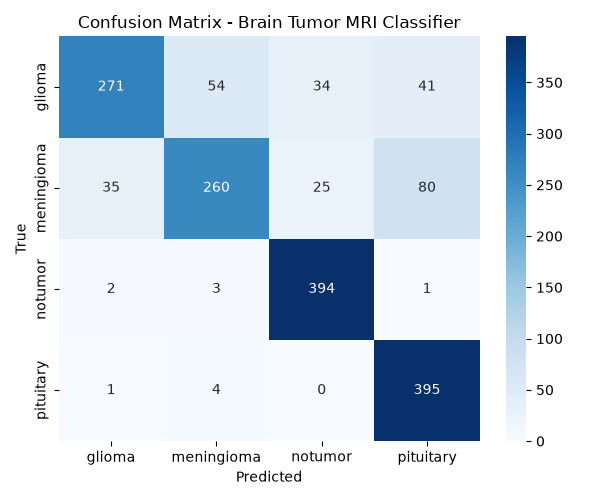
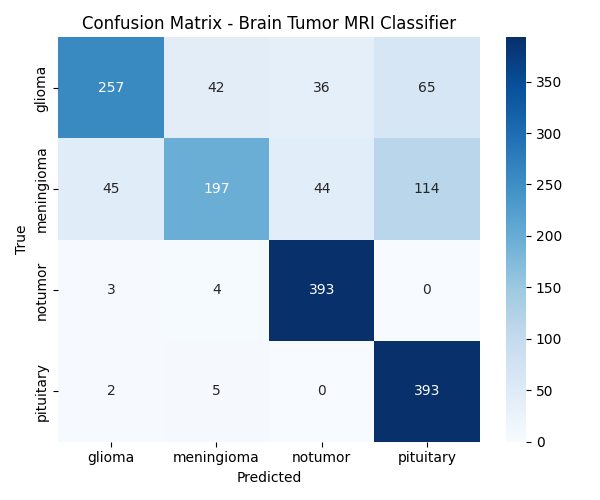
Fix deploy crash: pin keras==3.12.4 to match Streamlit Cloud Python 3.10
The model was originally saved with Keras 3.15.1 (resolved locally on
Python 3.11), but Keras 3.15.1 doesn't support Python 3.10 at all, so
Streamlit Cloud resolved an older, incompatible Keras (3.12.4) at
deploy time, which couldn't deserialize the newer VarianceScaling
initializer config (input_axes/output_axes fields) -> TypeError on
load_model().

Fix: pin keras==3.12.4 (max version compatible with Python 3.10) in
both requirements.txt and training/requirements.txt, retrain with a
matching Python 3.10 venv, and re-upload the model to Hugging Face.
Verified the fix by loading the freshly uploaded model in a clean
Python 3.10 + keras==3.12.4 environment.

diff --git a/README.md b/README.md
@@ -6,7 +6,7 @@ This project is a brain tumor MRI classifier built using Streamlit, a powerful f
 LINK TO TRY IT OUT : https://brain-tumor-app-cbtaz6mjq8x6lc9mquzkcj.streamlit.app/
 
 ## Model
-An EfficientNetB0 backbone was fine-tuned on the [Kaggle Brain Tumor MRI Dataset](https://www.kaggle.com/datasets/masoudnickparvar/brain-tumor-mri-dataset) (glioma, meningioma, pituitary, no tumor — ~7,000 MRI images). Training used transfer learning in two phases (frozen head, then fine-tuning the top layers) with data augmentation. Test-set accuracy: **82.5%**. The trained model is hosted on [Hugging Face Hub](https://huggingface.co/Ambar10/brain-tumor-efficientnetb0) and downloaded automatically by the app. See `training/train.py` for the full pipeline and `training/artifacts/` for the confusion matrix and classification report.
+An EfficientNetB0 backbone was fine-tuned on the [Kaggle Brain Tumor MRI Dataset](https://www.kaggle.com/datasets/masoudnickparvar/brain-tumor-mri-dataset) (glioma, meningioma, pituitary, no tumor — ~7,000 MRI images). Training used transfer learning in two phases (frozen head, then fine-tuning the top layers) with data augmentation. Test-set accuracy: **77.5%**. The trained model is hosted on [Hugging Face Hub](https://huggingface.co/Ambar10/brain-tumor-efficientnetb0) and downloaded automatically by the app. See `training/train.py` for the full pipeline and `training/artifacts/` for the confusion matrix and classification report.
 
 The app also shows a **Grad-CAM** heatmap overlay for every prediction, highlighting which region of the MRI most influenced the model's decision.
 
